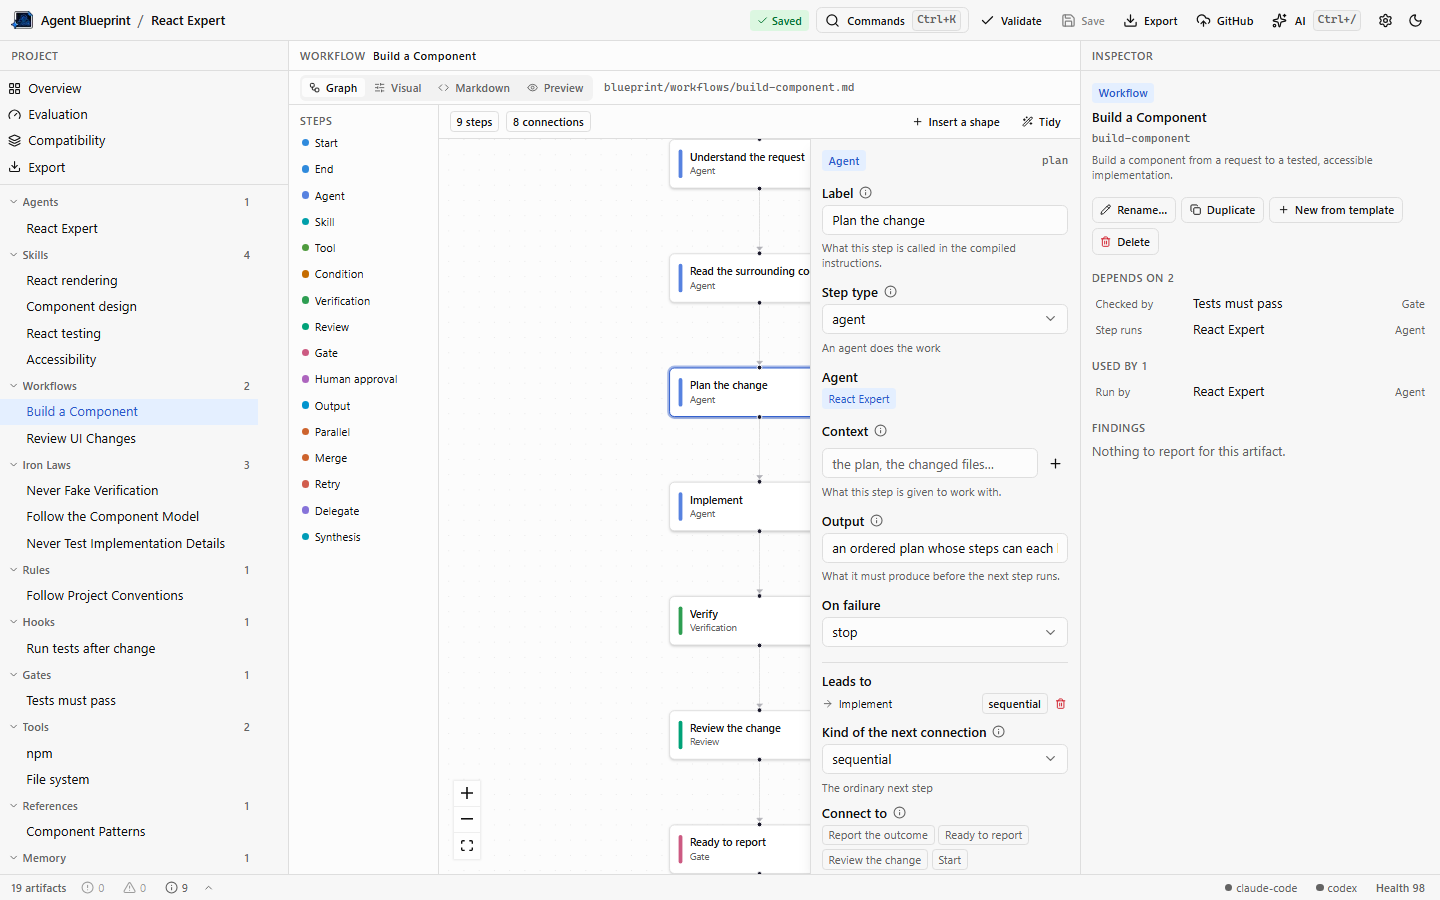
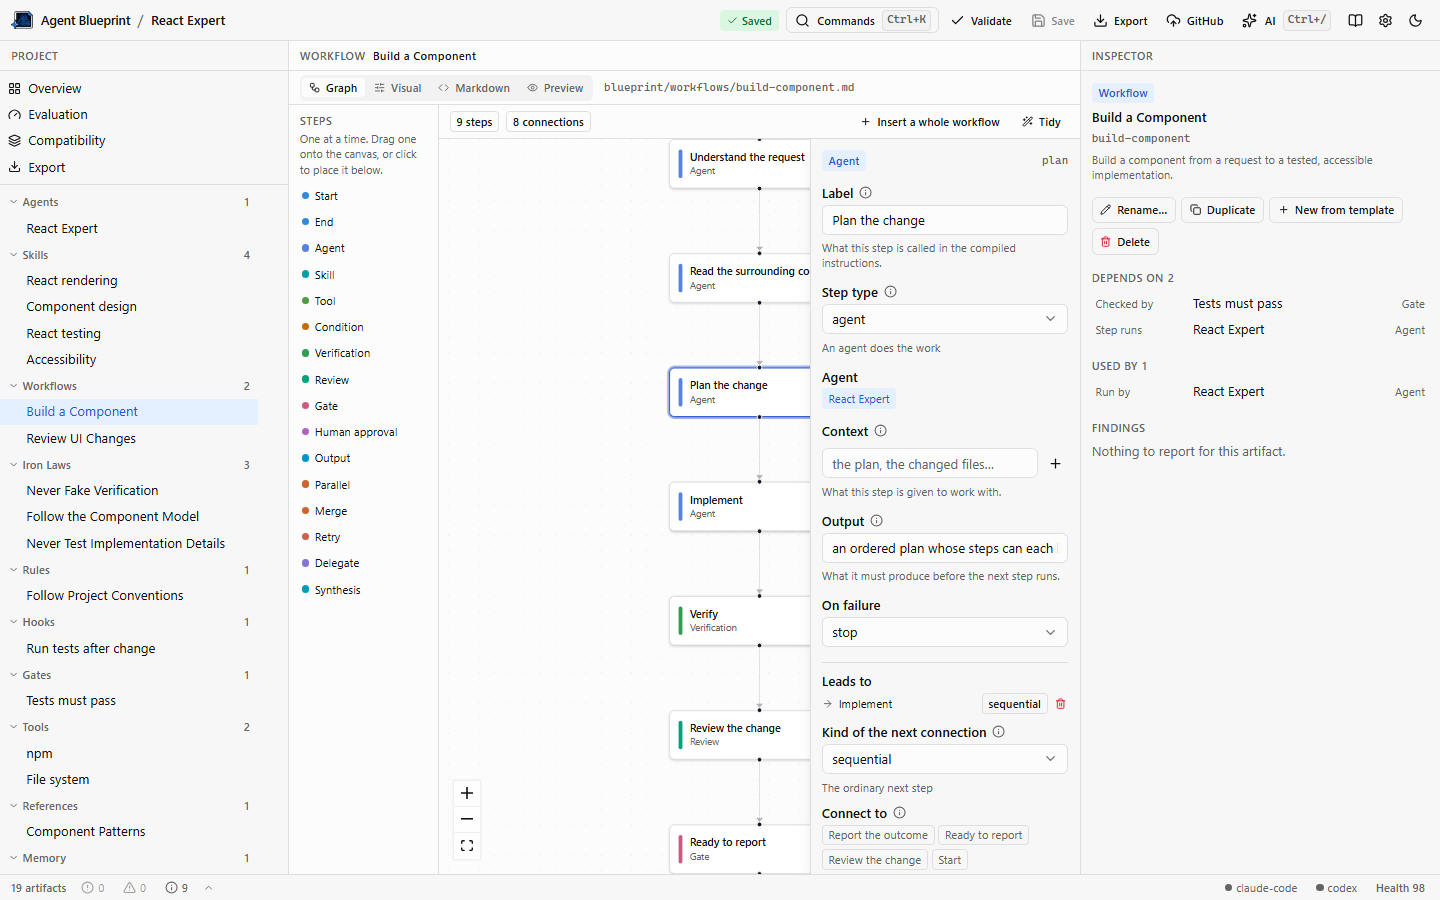
Name the insert button for what it inserts, and delete on Delete (P9-09)
Reported from use: "Insert a shape" adds every step of a workflow template,
and "shape" reads as a box on a canvas, so the button looked like the way to
add one step and appeared to add a dozen at once. The palette down the left,
which is the way to add one step, was never found. Nothing was broken; the
label was pointing at the wrong thing.

The button now says "Insert a whole workflow", the menu carries "For a single
step, use the palette on the left", and the palette says what it is for rather
than only what it holds.

Also reported: Delete did nothing. React Flow's default deleteKeyCode is
Backspace alone, which is the Mac key and the browser's back gesture on a full
keyboard. Both keys now delete, and neither fires while a text field has the
focus, so typing in the step panel stays safe. The two delete buttons in the
panel name the key, because a shortcut nobody can see is one nobody uses.

The step and the connections that reached it already went in a single change;
a test now holds that, since the failure mode is a second press of undo and it
is invisible until someone tries it.

Screenshots regenerated from the running app, as P9-06 requires.

Changed region(s): [[0.1875, 0.1556, 0.2812, 0.6844], [0.5, 0.0, 0.9688, 0.0311], [0.5938, 0.1244, 0.6875, 0.1556]]

diff --git a/apps/web/src/components/graph/workflow/workflow-editor.tsx b/apps/web/src/components/graph/workflow/workflow-editor.tsx
@@ -254,6 +254,10 @@ function Canvas({
         event.preventDefault()
         event.dataTransfer.dropEffect = 'move'
       }}
+      // React Flow deletes on Backspace alone, which is the Mac key. Delete is the one people
+      // reach for, and on a full keyboard Backspace is where you go back a page. Both, then.
+      // Neither fires while a text field has the focus, so typing in the step panel is safe.
+      deleteKeyCode={['Delete', 'Backspace']}
       fitView
       proOptions={{ hideAttribution: true }}
       minZoom={0.2}
@@ -316,6 +320,9 @@ export function WorkflowEditor({ workflowId }: { workflowId: string }) {
         <span className="text-muted-foreground px-1 text-xs font-medium tracking-wide uppercase">
           Steps
         </span>
+        <span className="text-muted-foreground px-1 pb-1 text-[11px] leading-snug">
+          One at a time. Drag one onto the canvas, or click to place it below.
+        </span>
         {(Object.keys(NODE_TYPE_INFO) as NodeType[]).map((type) => (
           <button
             key={type}
@@ -359,15 +366,30 @@ export function WorkflowEditor({ workflowId }: { workflowId: string }) {
         <div className="flex h-9 shrink-0 items-center gap-2 border-b px-3">
           <Badge variant="outline">{workflow.nodes.length} steps</Badge>
           <Badge variant="outline">{workflow.edges.length} connections</Badge>
+          {/*
+            Named for what it does. It used to say "Insert a shape", meaning the shape a
+            workflow has — but a shape on a canvas is a box, so it read as the way to add one
+            step, and the way to add one step is the palette on the left. The menu says so too.
+          */}
           <DropdownMenu>
             <DropdownMenuTrigger asChild>
-              <Button variant="ghost" size="sm" className="ml-auto">
+              <Button
+                variant="ghost"
+                size="sm"
+                className="ml-auto"
+                title="A ready-made workflow, every step at once. For one step, use the palette on the left."
+              >
                 <PlusIcon className="size-3" />
-                Insert a shape
+                Insert a whole workflow
               </Button>
             </DropdownMenuTrigger>
             <DropdownMenuContent align="end" className="max-h-72 overflow-auto">
-              <DropdownMenuLabel>Add every step of a template</DropdownMenuLabel>
+              <DropdownMenuLabel>
+                Every step of a template, at once
+                <span className="text-muted-foreground mt-0.5 block text-[11px] font-normal">
+                  For a single step, use the palette on the left.
+                </span>
+              </DropdownMenuLabel>
               {workflowTemplates.map((template) => (
                 <DropdownMenuItem
                   key={template.id}
@@ -461,7 +483,8 @@ export function WorkflowEditor({ workflowId }: { workflowId: string }) {
             </aside>
           ) : (
             <p className="text-muted-foreground pointer-events-none absolute inset-x-0 bottom-2 text-center text-xs">
-              Drag a step from the left, or drag between two steps to connect them.
+              Drag a step from the left, or drag between two steps to connect them. Select one and
+              press Delete to remove it.
             </p>
           )}
         </div>

diff --git a/apps/web/e2e/workspace.spec.ts b/apps/web/e2e/workspace.spec.ts
@@ -351,13 +351,13 @@ test.describe('workflow editor', () => {
     await artifact(page, 'Build a Component').click()
     const before = await page.locator('.react-flow__node').count()
 
-    await page.getByRole('button', { name: 'Insert a shape' }).click()
+    await page.getByRole('button', { name: 'Insert a whole workflow' }).click()
     await page.getByRole('menuitem', { name: 'Code review' }).click()
     await expect(page.getByText(/Inserted Code review/).first()).toBeVisible()
     const once = await page.locator('.react-flow__node').count()
     expect(once).toBeGreaterThan(before)
 
-    await page.getByRole('button', { name: 'Insert a shape' }).click()
+    await page.getByRole('button', { name: 'Insert a whole workflow' }).click()
     await page.getByRole('menuitem', { name: 'Code review' }).click()
     const twice = await page.locator('.react-flow__node').count()
 
@@ -371,6 +371,50 @@ test.describe('workflow editor', () => {
       .locator('.react-flow__node')
       .evaluateAll((nodes) => nodes.map((node) => (node as HTMLElement).style.transform))
     expect(new Set(transforms).size).toBe(transforms.length)
+  })
+
+  test('Delete removes the selected step and the connections that reached it', async ({ page }) => {
+    await openStarter(page)
+    await artifact(page, 'Build a Component').click()
+
+    const steps = page.locator('.react-flow__node')
+    const connections = page.locator('.react-flow__edge')
+    const stepsBefore = await steps.count()
+    const connectionsBefore = await connections.count()
+    expect(connectionsBefore).toBeGreaterThan(0)
+
+    // One in the middle, so something is joined to it and the edges have to go too.
+    await steps.nth(1).click()
+    await expect(page.getByRole('complementary', { name: 'Step settings' })).toBeVisible()
+
+    await page.keyboard.press('Delete')
+
+    await expect(steps).toHaveCount(stepsBefore - 1)
+    expect(await connections.count()).toBeLessThan(connectionsBefore)
+    // The panel belongs to a step that no longer exists.
+    await expect(page.getByRole('complementary', { name: 'Step settings' })).toBeHidden()
+
+    // One press of undo, not two: the step and its connections went in a single change.
+    await page.keyboard.press('ControlOrMeta+z')
+    await expect(steps).toHaveCount(stepsBefore)
+    await expect(connections).toHaveCount(connectionsBefore)
+  })
+
+  test('typing in the step panel is not a delete', async ({ page }) => {
+    await openStarter(page)
+    await artifact(page, 'Build a Component').click()
+
+    const steps = page.locator('.react-flow__node')
+    const before = await steps.count()
+    await steps.nth(1).click()
+
+    const label = page.getByLabel('Label', { exact: true })
+    await label.click()
+    await label.press('End')
+    await label.press('Backspace')
+    await label.press('Delete')
+
+    await expect(steps).toHaveCount(before)
   })
 
   test('a step keeps where it was dragged to, across a reload', async ({ page }) => {

diff --git a/apps/web/src/components/graph/workflow/node-inspector.tsx b/apps/web/src/components/graph/workflow/node-inspector.tsx
@@ -319,6 +319,7 @@ export function NodePanel({
         <Button
           variant="outline"
           size="sm"
+          title="Or press Delete"
           onClick={() => {
             onChange(removeNode(workflow, node.id))
             onClearSelection()
@@ -394,6 +395,7 @@ export function EdgePanel({
         variant="outline"
         size="sm"
         className="self-start"
+        title="Or press Delete"
         onClick={() => {
           onChange(removeEdge(workflow, edge.id))
           onClearSelection()

diff --git a/docs/07-web-app.md b/docs/07-web-app.md
@@ -278,6 +278,8 @@ AI actions are context-aware: with an artifact selected they target it; with not
 | `⌘Z` / `⇧⌘Z` | Undo / redo           |
 | `Esc`        | Close panel or dialog |
 
+One key belongs to a view rather than to the app: in the workflow editor, `Delete` or `Backspace` removes the selected step or connection. It is React Flow's own handler, which does not fire while a text field has the focus, so typing in the step panel is safe.
+
 Either modifier fires the shortcut, so the same key works on any keyboard; menus print `⌘` on Apple hardware and `Ctrl+` elsewhere. While the focus is in a text field or the code editor only the palette and Save fire, because `⌘Z` there belongs to the field. `Esc` is handled by the dialogs themselves.
 
 `⌘/` opens the assistant, and `⌘⏎` applies whatever a ChangeSet review currently has accepted. Both were reserved until P6; a shortcut with nothing behind it is left to the browser rather than swallowed.
@@ -303,7 +305,7 @@ The keyboard half of the spec drives these with keys only and asserts where focu
 ## Views
 
 - **Overview graph** (P4): derived from `collectRefs`; nodes coloured by kind; clicking selects; no positions stored.
-- **Workflow editor** (P4): `@xyflow/react`; node palette for all `WORKFLOW_NODE_TYPES`, draggable onto the canvas or clickable to place a step below what is drawn; positions are part of the workflow and are written to the project file, so a drag is an edit like any other and `Tidy` re-lays the graph deterministically. Connections are drawn by dragging between two steps, which always makes a `sequential` edge; the step panel is the keyboard path and the only place the kind is chosen while connecting, and it lists all `WORKFLOW_EDGE_KINDS`. Steps carry inline badges for `BP-WF-*` diagnostics, and deleting an artifact shows `impactOf`.
+- **Workflow editor** (P4): `@xyflow/react`; node palette for all `WORKFLOW_NODE_TYPES`, draggable onto the canvas or clickable to place a step below what is drawn; positions are part of the workflow and are written to the project file, so a drag is an edit like any other and `Tidy` re-lays the graph deterministically. Connections are drawn by dragging between two steps, which always makes a `sequential` edge; the step panel is the keyboard path and the only place the kind is chosen while connecting, and it lists all `WORKFLOW_EDGE_KINDS`. Steps carry inline badges for `BP-WF-*` diagnostics, and deleting an artifact shows `impactOf`. Two ways to add, named apart so neither is mistaken for the other: the **Steps** palette on the left adds one step, and **Insert a whole workflow** adds every step of a template at once. A selected step or connection is removed by the panel's Delete button or by `Delete` / `Backspace`, and either way the step and the connections that reached it go in one change, so one press of undo puts them back.
 - **Diagnostics**: opened from the health bar, grouped by the severity that was clicked, each row navigating to its `ref`.
 - **Evaluation view**: per-dimension score with its findings and weight, requirement results with each check and the artifacts that satisfied it, and a button to recompute. Every finding navigates. **Run AI analysis** adds a model's contradictions and its verdicts on `ai-judged` requirement checks beside the rules', badged `AI`, deduplicated against what the validator already said — and explicitly not counted in the score, because a number that moves when nothing about the Blueprint did is a number nobody can act on.
 - **Compatibility view**: concept by harness matrix from the adapters' own capability matrices, filtered to the concepts the Blueprint uses, each cell carrying the adapter's explanation. Targets are toggled from here.

diff --git a/docs/09-roadmap.md b/docs/09-roadmap.md
@@ -780,6 +780,17 @@ something, it says what and where that thing still exists.
 - Found and fixed, a P4-era bug the "Connect" screenshot exposed: `PanelSection`'s content wrapper was a block, so a `flex-1` child could not stretch and collapsed to its own content height. The workflow canvas was taking **416 of the 803 pixels** it was given — clipping its last step, cutting the step panel off mid-sentence, and leaving half the pane looking like empty canvas. Content that scrolls sizes itself and so never showed it. One class, plus an e2e case that measures the canvas against its pane (416 before, 735 after).
 - Found and fixed: the axe sweep's `document-title` failures were a race, not a page. React takes the title down and puts it back across a client transition and a later re-render, so a scan landing in the gap reports a missing title on a page that has one before and after. The rule is now asserted with `toHaveTitle`, which retries — the same check without the race, and stronger, because it says which title.
 
+### P9-09 Two ways to add a step, one of them misnamed (done)
+
+- Package: `apps/web/src/components/graph/workflow/`
+- Depends on: nothing
+- Description: Reported from use. The workflow toolbar's **Insert a shape** inserts every step of a template, and a reader took "shape" to mean a box on a canvas, so the button looked like the way to add one step and appeared to add a dozen. The way to add one step — the palette down the left — was never found. Nothing was broken; the label was.
+- Also reported: `Delete` did nothing. React Flow's default `deleteKeyCode` is `Backspace` alone, which is the Mac key and the browser's back gesture elsewhere.
+- Acceptance: the toolbar button says it inserts a whole workflow and the menu says where to go for one step; `Delete` and `Backspace` both remove the selected step or connection; neither fires while a text field has the focus; the step and the edges that reached it go in one change.
+- Verify: `pnpm --filter web test:e2e workspace`
+- Built: **Insert a whole workflow**, with the menu's own label carrying "For a single step, use the palette on the left." The palette gained a line of its own — "One at a time. Drag one onto the canvas, or click to place it below." — because a heading reading `STEPS` above a list of step kinds is not an instruction, and the empty-canvas hint now names the delete key.
+- Built: `deleteKeyCode={['Delete', 'Backspace']}`, and the panel's two delete buttons carry "Or press Delete" so the key is learnable where it is wanted. The existing single `onDelete` handler already made the step and its edges one change; a test now holds that, because the failure mode is two presses of undo and it is invisible until someone tries.
+
 ### Open questions
 
 1. ~~**The logo needs a mark-only export.**~~ Settled: rather than crop by CSS, the cut is a script. `pnpm --filter web logo` measures nothing at run time — the rectangles live in `e2e/logo-assets.spec.ts`, taken from the artwork's alpha channel — and writes the three assets the app imports. A redrawn logo needs that one command and a re-measurement, and no component changes.
